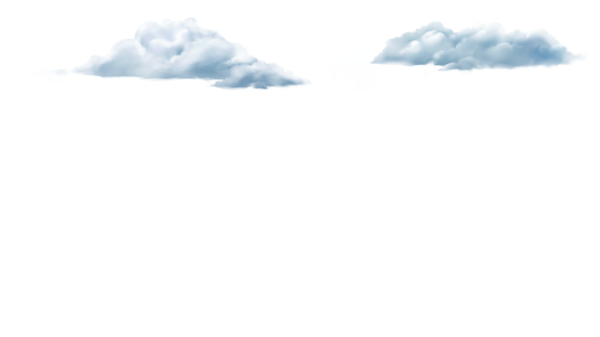
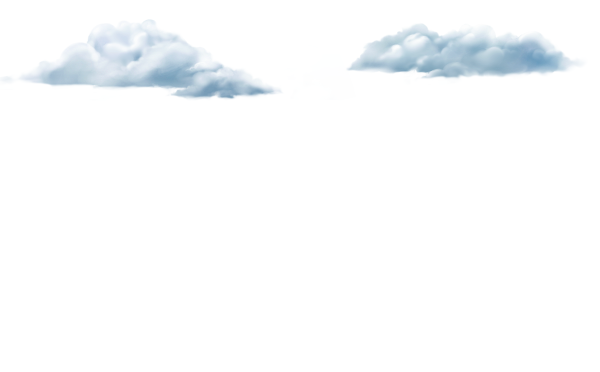
fix parallax background

diff --git a/entregable-3/css/style.css b/entregable-3/css/style.css
@@ -6,26 +6,65 @@
 }
 
 #background {
+    position: absolute;
+    z-index: -5;
     background: url('../resources/sky_parallax_600.png');
     background-size: cover;
-    height: 100vh;
-    width: 100vw;
+    width: 100%;
+    height: 100%;
 }
 
 #mountains {
+    position: absolute;
+    z-index: -4;
     background: url('../resources/mountain_parallax_600.png');
     background-size: cover;
     width: 100%;
     height: 100%;
-    animation: bg-parallax 30s linear infinite;
+    animation: bg-parallax 60s linear infinite;
 }
 
-#clouds {
-    background: url('../resources/cloud_parallax_600.png');
-    background-size: contain;
+#left_cloud {
+    position: absolute;
+    z-index: -3;
+    background: url('../resources/left_cloud_parallax.png');
+    background-size: cover;
     width: 100%;
     height: 100%;
     animation: bg-parallax 10s linear infinite;
+}
+
+#right_cloud {
+    position: absolute;
+    z-index: -3;
+    background: url('../resources/right_cloud_parallax.png');
+    background-size: cover;
+    width: 100%;
+    height: 100%;
+    animation: bg-parallax 10s linear infinite;
+}
+
+#desert {
+    position: absolute;
+    z-index: -2;
+    background: url('../resources/desert_parallax_600.png');
+    background-size: cover;
+    width: 100%;
+    height: 100%;
+    animation: bg-parallax 5s linear infinite;
+}
+
+#gameContainer {
+    width: 100vw;
+    height: 100vh;
+    display: flex;
+    flex-flow: column wrap;
+    justify-content: center;
+    align-items: center;
+}
+
+@keyframes bg-parallax {
+    100% {background-position-x: -100vw;}
 }
 
 /* #diamante {
@@ -35,24 +74,6 @@
 @keyframes girar {
     100% {transform: rotateY(360deg)}
 } */
-
-#desert {
-    background: url('../resources/desert_parallax_600.png');
-    background-size: contain;
-    width: 100%;
-    height: 100%;
-    display: flex;
-    flex-flow: column wrap;
-    justify-content: center;
-    align-items: center;
-    animation: bg-parallax 5s linear infinite;
-}
-
-@keyframes bg-parallax {
-    0% {background-position: 100vw;}
-    100% {background-position: 0;}
-}
-
 .hide {
     display: none;
 }
@@ -121,6 +142,9 @@
 }
 
 #playGame {
+    position: absolute;
+    z-index: 1;
+    top: 30vh;
     display: flex;
     justify-content: center;
     align-items: center;
@@ -131,7 +155,6 @@
     border-radius: 10px;
     border: 1px solid #b1b113;
     box-shadow: 0px 6px 0px #b1b113;
-    z-index: 1;
 }
 
 #playGame p{
@@ -140,6 +163,9 @@
 }
 
 #rules {
+    position: absolute;
+    z-index: 1;
+    top: 45vh;
     display: flex;
     justify-content: center;
     align-items: flex-start;
@@ -151,7 +177,6 @@
     border-radius: 10px;
     border: 1px solid #b1b113;
     box-shadow: 0px 6px 0px #b1b113;
-    z-index: 1;
 }
 
 #rules p {

diff --git a/entregable-3/index.html b/entregable-3/index.html
@@ -7,37 +7,38 @@
     <link rel="stylesheet" href="css/style.css">
 </head>
 <body>
-    <div id="background">
-        <div id="mountains">
-            <div id="clouds">
-                <div id="desert">
-                    <div id="up"></div>
-                    <button id="playGame" type="button">
-                        <p>PLAY GAME</p>
-                    </button>
-                    <div id="rules">
-                        <p>Objetivo: El juego consiste en superar los obstáculos sin tocarlos, obteniendo un punto por cada uno.</p>
-                        <p>Controles: El avión puede impulsarse con la barra espaciadora.</p>
-                        <p>Advertencia: ¡Cuidado con tocar el "suelo"!</p>
-                    </div>
-                    <!-- <img id="diamante" src="resources/Diamante.png" alt=""> -->
-                    <div id="player-container">
-                        <div id="plane" class="hide fly"></div>
-                    </div>
-                    
-                    <div id="up"></div>
-                    <div id="score"></div>
-                    <div id="obstacle1"></div>
-                    <div id="obstacle2"></div>
-                    <div id="obstacle3"></div>
-                    <div id="obstacle4"></div>
-                    <div id="obstacle5"></div>
-                    <div id="obstacle6"></div>
-                </div>
-            </div>
+    <div id="gameContainer">
+        <div id="background"></div>
+        <div id="mountains"></div>
+        <div id="left_cloud"></div>
+        <div id="right_cloud"></div>
+        <div id="desert"></div>
+        <div id="up"></div>
+        
+        <button id="playGame" type="button">
+            <p>PLAY GAME</p>
+        </button>
+        <div id="rules">
+            <p>Objetivo: El juego consiste en superar los obstáculos sin tocarlos, obteniendo un punto por cada uno.</p>
+            <p>Controles: El avión puede impulsarse con la barra espaciadora.</p>
+            <p>Advertencia: ¡Cuidado con tocar el "suelo"!</p>
         </div>
+        <div id="player-container">
+            <div id="plane" class="hide fly"></div>
+        </div>
+        
+        <div id="up"></div>
+        <div id="score"></div>
+        <div id="obstacle1"></div>
+        <div id="obstacle2"></div>
+        <div id="obstacle3"></div>
+        <div id="obstacle4"></div>
+        <div id="obstacle5"></div>
+        <div id="obstacle6"></div>
     </div>
     
+    <!-- <img id="diamante" src="resources/Diamante.png" alt=""> -->
+
     <script src="js/Obstacle.js"></script>
     <script src="js/Player.js"></script>
     <script src="js/Game.js"></script>

diff --git a/entregable-3/js/Main.js b/entregable-3/js/Main.js
@@ -16,15 +16,15 @@ window.onload = e => {
             //oculto las reglas y las paso a un zindex atrás
             //así no estorban
             rules.classList.add('hide');
-            rules.style.zIndex = '-1';
+            rules.style.zIndex = '-10';
 
             //hago lo mismo que con las reglas pero con el 
             //botón de iniciar
             playBtn.classList.add('hide');
-            playBtn.style.zIndex = '-1';
+            playBtn.style.zIndex = '-10';
 
             //si no saco el focus, cuando apreto espacio para saltar
-            //es como si apretara click en el botón y se reinicia el juego
+            //es puteo si apretara click en el botón y se reinicia el juego
             playBtn.blur();
 
             game.start();
